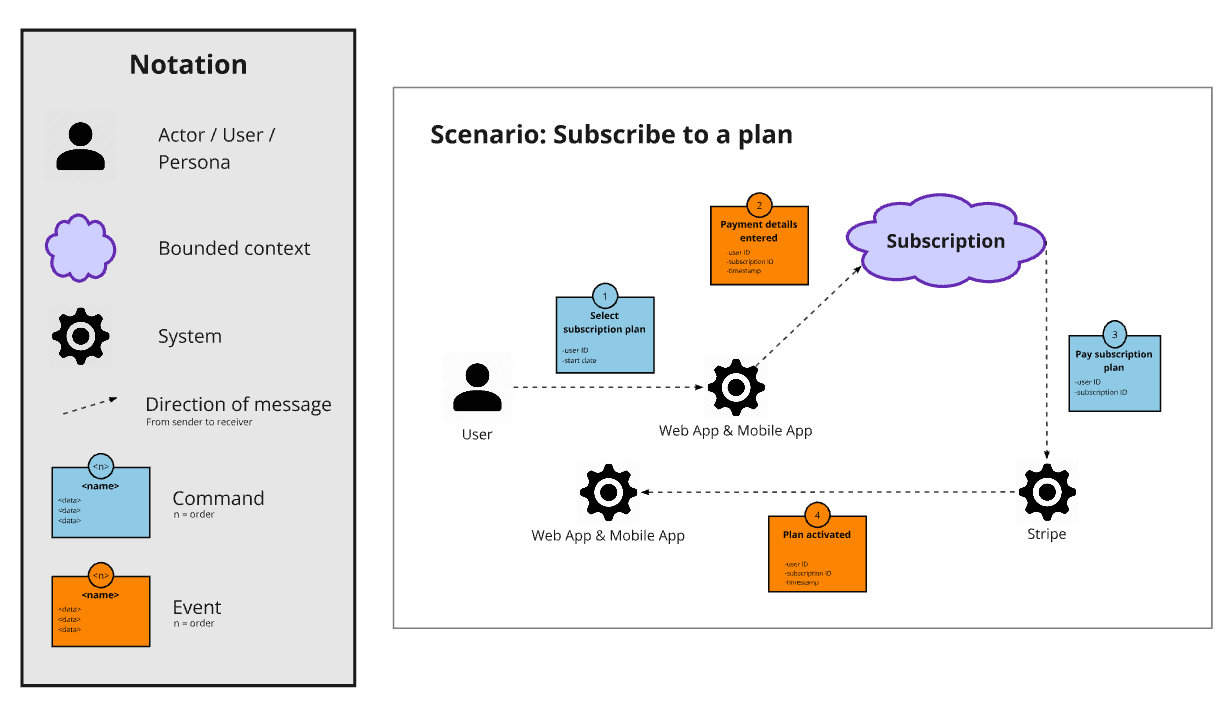
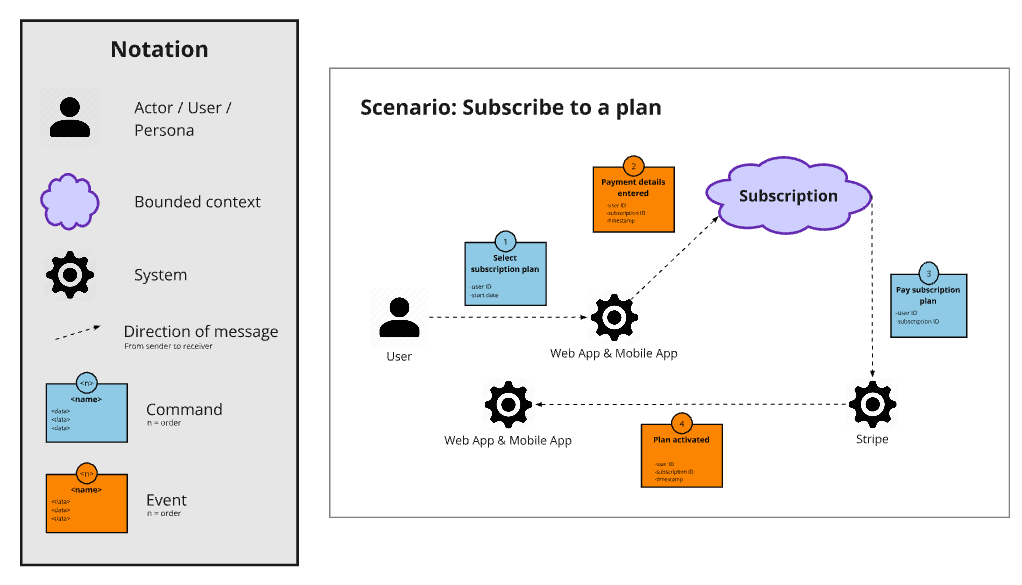
fix: fix domain message flows

diff --git a/04-chap4-solution-software-design.md b/04-chap4-solution-software-design.md
@@ -361,32 +361,37 @@ Los Domain Message Flows modelan las interacciones entre los diferentes bounded 
 
 * **Access to platform:** En este flujo se muestra la interacción entre el bounded context IAM y el bounded context Profiles al momento en que un usuario se registra de forma omnicanal (Web o App) y se crea su perfil correspondiente.
 
-  <img src="assets/images/chapter4/message_flows/access_to_platform.png" alt="Domain Message Flow - Access to platform" height="500px">
-* **Record a recipe:** En este flujo se muestra la interacción entre el bounded context Planning y el bounded context Resource al momento en que un administrador diseña y registra una nueva receta, vinculando los insumos necesarios del almacén.
+  <img src="assets/images/chapter4/message_flows/access_to_platform.png" alt="Domain Message Flow - Access to platform" height="300px">
 
-  <img src="assets/images/chapter4/message_flows/record_a_recipe.png" alt="Domain Message Flow - Record a recipe" height="500px">
-* **Register a restaurant sale and update inventory:** En este flujo se modela la complejidad de una venta en restaurante, donde el sistema interactúa con las recetas para deducir de Resource las cantidades exactas de insumos utilizados tras confirmar el ticket.
+* **Delete a recipe:** En este flujo se detalla la interacción iniciada por el Restaurant Manager al eliminar una receta. El bounded context Planning procesa el evento de confirmación y emite comandos hacia los contextos Communications (para el envío de notificaciones vía OneSignal) y Analytics, permitiendo que la aplicación actualice y muestre las alertas recientes.
 
-  <img src="assets/images/chapter4/message_flows/register_a_restaurant_sale.png" alt="Domain Message Flow - Register a restaurant sale" height="500px">
-* **IoT Monitoring and Anomaly Detection:** En este escenario crítico se muestra la interacción entre Monitoring (Service Operation) y Resource. La telemetría capturada por el hardware solicita el stock teórico, detecta discrepancias físicas y genera tareas de conciliación para el administrador.
+  <img src="assets/images/chapter4/message_flows/delete_a_recipe.png" alt="Domain Message Flow - Delete a recipe" height="300px">
 
-  <img src="assets/images/chapter4/message_flows/iot_monitoring_and_anomaly_detection.png" alt="Domain Message Flow - IoT Monitoring" height="500px">
-* **Push Notification Dispatch:** En este flujo se detalla cómo el bounded context de Comunications reacciona a eventos anómalos del sistema, filtrando destinatarios y delegando el envío de alertas a dispositivos móviles mediante una integración con una API externa (OneSignal).
+* **Push Notification Dispatch:** En este escenario se detalla cómo el bounded context ARM delega el envío de alertas. Tras el evento de añadir un lote al inventario, se envía un comando al bounded context Communications, el cual utiliza la API de OneSignal para disparar el evento de notificación hacia los dispositivos web y móviles de los usuarios.
 
-  <img src="assets/images/chapter4/message_flows/push_notification_dispatch.png" alt="Domain Message Flow - Push Notification Dispatch" height="500px">
+  <img src="assets/images/chapter4/message_flows/push_notification_dispatch.png" alt="Domain Message Flow - Push Notification Dispatch" height="300px">
 
-Adicionalmente, se presentan flujos de escenarios relevantes para el core del negocio, pero que por su alta cohesión resuelven sus procesos sin requerir interacción con otros bounded contexts externos:
+* **Record a batch in the inventory:** En este flujo, el Manager registra un lote desde la interfaz. El evento de creación es procesado por el bounded context ARM, el cual genera un comando hacia el bounded context Communications para que este emita el evento de notificación enviada y actualice el centro de alertas en la aplicación.
 
-* **Subscribe to a plan:** En este flujo se muestra el proceso de onboarding comercial, donde el registro empresarial y la confirmación de pago se orquestan internamente dentro del bounded context de Subscription.
+  <img src="assets/images/chapter4/message_flows/record_a_batch_in_the_inventory.png" alt="Domain Message Flow - Record a batch in the inventory" height="300px">
 
-  <img src="assets/images/chapter4/message_flows/subscribe_to_a_plan.png" alt="Domain Message Flow - Subscribe to a plan" height="500px">
-* **Record a supply in the inventory:** En este flujo se modela el ingreso manual o la actualización de existencias de un insumo, el cual es procesado exclusivamente dentro del bounded context Resource.
+* **Register a retail sale and update inventory:** En este flujo se observa la sincronización automática entre ventas y almacén. Al confirmarse una venta por el Retail Manager, el bounded context Sales emite un comando directo al bounded context ARM para ejecutar la sustracción del stock en el lote de insumos correspondiente.
 
-  <img src="assets/images/chapter4/message_flows/record_a_supply_in_the_inventory.png" alt="Domain Message Flow - Record a supply" height="500px">
-* **Register a physical branch and assign IoT devices:** En este flujo se evidencia el proceso de digitalización de una nueva sucursal y la vinculación de sus sensores físicos, consolidando entidades fuertemente acopladas dentro del bounded context Resource (Asset and Resource Management) y utilizando una API externa para la gestión de imágenes.
+  <img src="assets/images/chapter4/message_flows/register_a_retail_sale_and_update_inventory.png" alt="Domain Message Flow - Register a retail sale and update inventory" height="300px">
 
-  <img src="assets/images/chapter4/message_flows/register_a_physical_branch_and_assign_devices.png" alt="Domain Message Flow - Register branch and devices" height="500px">
+* **Signup and create branch:** En este flujo omnicanal, el proceso inicia en el bounded context IAM con el guardado de datos del usuario. Posteriormente, el flujo pasa al bounded context Subscriptions para la selección y activación de un plan, lo que finalmente desencadena un comando hacia el bounded context ARM para registrar e inicializar la sucursal única del sistema.
 
+  <img src="assets/images/chapter4/message_flows/signup_and_create_branch.png" alt="Domain Message Flow - Signup and create branch" height="300px">
+
+* **Subscribe to a plan:** En este flujo financiero, el usuario interactúa con la aplicación para elegir una suscripción. El bounded context Subscription orquesta el proceso emitiendo el comando de pago a la pasarela externa (Stripe), capturando el evento de éxito para finalmente activar el plan de forma global en la plataforma.
+
+  <img src="assets/images/chapter4/message_flows/subscribe_to_a_plan.png" alt="Domain Message Flow - Subscribe to a plan" height="300px">
+
+* **Tracking and Anomaly Detection:** En este flujo crítico de telemetría, la aplicación embebida (báscula inteligente) detecta que un umbral ha sido superado y emite un evento al bounded context Tracking. Este interactúa con Notification para generar la alerta, fluyendo luego hacia Analytics para que las aplicaciones de usuario final consuman y muestren la alerta reciente en el dashboard.
+
+  <img src="assets/images/chapter4/message_flows/tracking_and_anomaly_detection.png" alt="Domain Message Flow - Tracking and Anomaly Detection" height="300px">
+
+  
 #### 4.1.1.3 Bounded Context Canvases
 
 Un Bounded Context Canvas es una herramienta visual que ayuda a documentar lo necesario para un bounded context identificado. A continuación se describe el diseño de cada contexto, incluyendo la definición del contexto, su clasificación, las reglas de negocio, el lenguaje ubicuo utilizado para este context, y la comunicación de este contexto.
